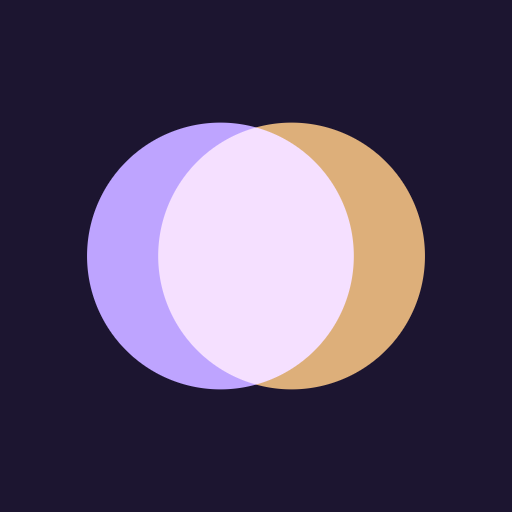
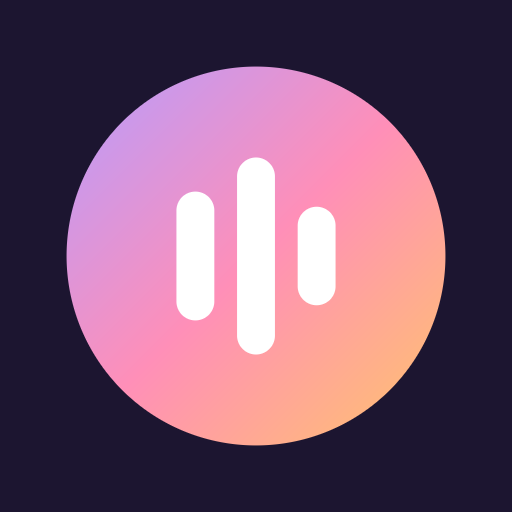
Фон из обложки, новое лого и иконки, похожие артисты, радио по треку, полировка

diff --git a/js/app.js b/js/app.js
@@ -1,6 +1,6 @@
 import * as db from './db.js';
 import { readTags, parseFileName } from './id3.js';
-import { searchItunes, searchDeezer, searchArtists, fetchArt, albumTracks, artistCatalog, artistTop } from './covers.js';
+import { searchItunes, searchDeezer, searchArtists, fetchArt, albumTracks, artistCatalog, artistTop, artistRelated } from './covers.js';
 import { Engine, EQ_BANDS, EQ_PRESETS } from './engine.js';
 import { findLyrics } from './lyrics.js';
 import { identify, cleanName, cleanTag, sameName, findOriginal, scoreCandidate, IDENT_VER } from './identify.js';
@@ -462,6 +462,15 @@ async function paintArtistTop(box, cat, mine) {
     <span class="ttl"><span class="t">${esc(s.title)}</span><span class="a">${esc(s.album || s.artist)}${s.own ? '' : ' · нет в библиотеке'}</span></span>
     <span class="acts">${s.own ? '' : '<button class="ib" data-miss="wish" title="В «Хочу скачать»"><svg><use href="#i-plus"/></svg></button><button class="ib" data-miss="find" title="Найти через бота"><svg><use href="#i-tg"/></svg></button>'}</span></li>`).join('')}</ul>`;
   box.querySelector('.arthead')?.insertAdjacentHTML('afterend', html);
+  const rel = await artistRelated(cat.dzId).catch(() => []);
+  if (!rel.length || !box.isConnected) return;
+  const groups = artistGroups();
+  const relHTML = `<div class="sechead"><div><b>Похожие артисты</b><small>Нажми — откроется дискография</small></div></div><ul class="rows"><li class="artists">${rel.map(x => {
+    const mine = groups.find(g => g.key === normKey(x.name));
+    return `<button class="artist" data-view="${mine ? 'artist:' + esc(mine.key) : 'webartist:' + esc(encodeURIComponent(x.name))}">${x.pic ? `<img class="cov" src="${esc(x.pic)}" alt="" loading="lazy" style="border-radius:50%">` : '<span class="cov">?</span>'}<b>${esc(x.name)}</b><small>${mine ? tracksWord(mine.n) + ' у тебя' : 'нет в библиотеке'}</small></button>`;
+  }).join('')}</li></ul>`;
+  const last = [...box.querySelectorAll(':scope > .sechead')].at(-1);
+  last ? last.insertAdjacentHTML('beforebegin', relHTML) : box.insertAdjacentHTML('beforeend', relHTML);
 }
 
 const viewName = () => ({ ...SMART, news: 'Новинки', stats: 'Итоги', all: 'Вся музыка', liked: 'Любимое', recent: 'Недавние', fix: 'Проверка названий', wave: 'Волна', wish: 'Хочу скачать', albums: 'Альбомы' })[view] || (view.startsWith('webartist:') ? decodeURIComponent(view.slice(10)) : view.startsWith('album:') ? (albumGroups().find(g => g.key === view.slice(6)) || webAlbum(view.slice(6)))?.name : view.startsWith('artist:') ? artistGroups().find(g => g.key === view.slice(7))?.name : lib.playlists.find(p => p.id === view)?.name) || 'Плейлист';
@@ -798,6 +807,16 @@ function currentTaste() {
 const recentIds = () => lib.history.slice(0, 40).map(h => h.id).reverse();
 // без сети играть можно только уже скачанное
 const waveLibrary = () => { const all = [...tracks.values()]; return navigator.onLine ? all : all.filter(t => t.downloaded); };
+// Радио: начинаем с выбранного трека, дальше Волна подбирает похожие по звучанию, темпу и жанру
+function startRadio(id) {
+  const t = getT(id); if (!t) return;
+  const picks = nextWave(waveLibrary().filter(x => x.id !== id), currentTaste(), { count: 12, history: recentIds(), after: t });
+  waveMode = true;
+  queue = queueBase = [id, ...picks.map(x => x.id)];
+  injectPreviews();
+  playId(id);
+  toast(`Радио по треку «${t.title}»`);
+}
 function startWave() {
   const library = waveLibrary();
   if (!library.length) { toast(tracks.size ? 'Без интернета волне нечего играть: треки ещё не скачаны' : 'Сначала добавь музыку'); return; }
@@ -1121,8 +1140,20 @@ async function loadAudio(t) {
 }
 
 // ---------- отрисовка плеера ----------
+let bdUrl = '', bdFlip = 0;
+async function paintBackdrop(t) {
+  const url = !t ? '' : t.cover ? await coverUrl(t.id).catch(() => '') : (t.art || '');
+  if (url === bdUrl) return;
+  bdUrl = url; bdFlip ^= 1;
+  for (const box of $$('#backdrop, #fullbg')) {
+    const [x, y] = box.children, on = bdFlip ? y : x, off = bdFlip ? x : y;
+    if (url) on.style.backgroundImage = `url("${url}")`;
+    on.classList.toggle('on', !!url); off.classList.remove('on');
+  }
+}
 async function paintNow() {
   const t = engine.track;
+  paintBackdrop(t);
   $('#npTitle').textContent = t ? t.title : 'Ничего не играет';
   $('#npArtist').textContent = t ? (t.artist || 'Неизвестный артист') + (t.source === 'preview' ? ', превью 30 секунд' : '') : 'Выбери трек';
   $('#npLike').hidden = !t; $('#npAdd').hidden = !t;
@@ -1282,6 +1313,7 @@ function openMenu(id, x, y) {
     <button data-m="playNext">Играть следующим</button>
     <button data-m="qadd">В очередь</button>
     <button data-m="toPl">Добавить в плейлист</button>
+    <button data-m="radio">Радио по этому треку</button>
     <button data-m="rename">Изменить название</button>
     ${inPl ? '<button data-m="fromPl">Убрать из плейлиста</button>' : ''}
     <hr>
@@ -1299,6 +1331,7 @@ function openMenu(id, x, y) {
       addToQueue(id, a === 'playNext');
     } else if (a === 'toPl') pickPlaylist(id);
     else if (a === 'rename') openFind(t);
+    else if (a === 'radio') startRadio(id);
     else if (a === 'fromPl') { inPl.ids = inPl.ids.filter(q => q !== id); saveLib(); render(); }
     else if (a === 'orig') {
       // Mix ошибся: возвращаем как было и больше этот трек сам не трогаем

diff --git a/css/app.css b/css/app.css
@@ -846,3 +846,33 @@ img.cov { object-fit: cover; }
 .toplist .t { font-weight: 600; white-space: nowrap; overflow: hidden; text-overflow: ellipsis; }
 .toplist .a { color: var(--mist); font-size: 13px; }
 @media (max-width: 900px) { .statnums { grid-template-columns: repeat(2, minmax(0, 1fr)); } .arthead img { width: 84px; height: 84px; } .arthead b { font-size: 22px; } }
+
+/* ---------- фон из обложки ---------- */
+@property --h { syntax: '<number>'; inherits: true; initial-value: 258; }
+@property --s { syntax: '<percentage>'; inherits: true; initial-value: 100%; }
+:root { transition: --h 1.4s ease, --s 1.4s ease; }
+.backdrop { position: fixed; inset: 0; z-index: -1; pointer-events: none; overflow: hidden; }
+.fullbg { position: absolute; inset: 0; z-index: -1; pointer-events: none; overflow: hidden; }
+.backdrop i, .fullbg i { position: absolute; inset: -20%; background: center / cover no-repeat; filter: blur(80px) saturate(1.6); opacity: 0; transform: scale(1.15); transition: opacity 1.6s ease; }
+.backdrop i.on { opacity: .2; }
+.fullbg i.on { opacity: .8; }
+.fullbg::after { content: ""; position: absolute; inset: 0; background: linear-gradient(180deg, hsl(var(--h) 35% 10% / .25), hsl(var(--h) 35% 7% / .88)); }
+body { background: radial-gradient(120% 80% at 70% -10%, hsl(var(--h) 45% 18%), var(--night) 60%); }
+
+/* ---------- лого ---------- */
+svg.logo-mark { width: 30px; height: 30px; flex: none; filter: drop-shadow(0 4px 12px rgb(255 143 184 / .35)); }
+svg.logo-mark rect { transform-box: fill-box; transform-origin: center; }
+body.playing svg.logo-mark rect { animation: eqbar .9s ease-in-out infinite alternate; }
+body.playing svg.logo-mark rect:nth-child(2) { animation-delay: -.3s; }
+body.playing svg.logo-mark rect:nth-child(3) { animation-delay: -.6s; }
+@keyframes eqbar { from { transform: scaleY(.55); } to { transform: scaleY(1); } }
+@media (max-width: 900px) { svg.logo-mark { width: 24px; height: 24px; } }
+
+/* ---------- полировка ---------- */
+.btn.primary { background: linear-gradient(135deg, hsl(var(--h) 90% 80%), hsl(calc(var(--h) + 35) 90% 74%)); color: #1a1226; }
+.album .cov, .artist .cov { transition: transform .25s var(--ease), box-shadow .25s var(--ease); }
+.album:hover .cov, .artist:hover .cov { box-shadow: 0 14px 30px rgb(0 0 0 / .45); }
+.stack img, .stack .cov { box-shadow: 0 30px 70px rgb(0 0 0 / .55); }
+.row { transition: background .15s ease; }
+.sechead b { letter-spacing: -.2px; }
+@media (prefers-reduced-motion: reduce) { body.playing svg.logo-mark rect { animation: none; } :root { transition: none; } }

diff --git a/index.html b/index.html
@@ -17,6 +17,7 @@
   <link rel="stylesheet" href="css/app.css">
 </head>
 <body>
+  <div class="backdrop" id="backdrop" aria-hidden="true"><i></i><i></i></div>
   <svg width="0" height="0" style="position:absolute">
     <symbol id="i-play" viewBox="0 0 24 24"><path d="M8 5.1v13.8a1 1 0 0 0 1.5.9l10.8-6.9a1 1 0 0 0 0-1.7L9.5 4.2A1 1 0 0 0 8 5.1Z"/></symbol>
     <symbol id="i-pause" viewBox="0 0 24 24"><rect x="6" y="5" width="4" height="14" rx="1.2"/><rect x="14" y="5" width="4" height="14" rx="1.2"/></symbol>
@@ -52,7 +53,7 @@
 
   <div class="app">
     <aside class="rail">
-      <div class="logo"><span class="logo-mark"><span></span><span></span></span>Mix</div>
+      <div class="logo"><svg class="logo-mark" viewBox="0 0 100 100" aria-hidden="true"><defs><linearGradient id="lgMix" x1="0" y1="0" x2="1" y2="1"><stop offset="0" stop-color="#B69CFF"/><stop offset=".5" stop-color="#FF8FB8"/><stop offset="1" stop-color="#FFC56B"/></linearGradient></defs><circle cx="50" cy="50" r="50" fill="url(#lgMix)"/><g fill="#fff"><rect x="29" y="33" width="10" height="34" rx="5"/><rect x="45" y="24" width="10" height="52" rx="5"/><rect x="61" y="37" width="10" height="26" rx="5"/></g></svg>Mix</div>
       <nav class="nav" id="nav"></nav>
       <div class="rail-foot">
         <div class="tgcard" id="tgcard"></div>
@@ -119,6 +120,7 @@
   </footer>
 
   <section class="full" id="full" aria-label="Сейчас играет">
+    <div class="fullbg" id="fullbg" aria-hidden="true"><i></i><i></i></div>
     <div class="grab fullgrab"></div>
     <button class="close" id="closeFull" title="Свернуть"><svg style="margin:auto"><use href="#i-down"/></svg></button>
     <div class="stack" id="stack"></div>

diff --git a/js/covers.js b/js/covers.js
@@ -88,6 +88,11 @@ export async function artistTop(dzId, limit = 10) {
   const j = await jsonp(`https://api.deezer.com/artist/${dzId}/top?limit=${limit}`);
   return (j?.data || []).map(x => ({ title: x.title, artist: x.artist?.name || '', album: x.album?.title || '', art: x.album?.cover_xl || x.album?.cover_big || null, preview: x.preview || null, duration: x.duration || 0 }));
 }
+// Похожие артисты (Deezer)
+export async function artistRelated(dzId, limit = 12) {
+  const j = await jsonp(`https://api.deezer.com/artist/${dzId}/related?limit=${limit}`);
+  return (j?.data || []).map(x => ({ name: x.name, pic: x.picture_medium || null }));
+}
 async function deezerCatalog(name) {
   const s = await jsonp(`https://api.deezer.com/search/artist?q=${encodeURIComponent(name)}&limit=5`);
   const a = (s?.data || []).find(x => nk(x.name) === nk(name));

diff --git a/sw.js b/sw.js
@@ -2,7 +2,7 @@
 // Свои файлы: сначала сеть (так обновления приходят сами), при её отсутствии или задержке — кэш.
 // Шрифты и зафиксированные модули esm.sh: сначала кэш. Всё остальное (Telegram, LRCLIB, iTunes, AcoustID, аудио) не трогаем.
 // VERSION и список ниже обновляет deploy.ps1.
-const VERSION = '2026-11-15-1820';
+const VERSION = '2026-11-15-1832';
 // PRECACHE:BEGIN
 const APP = [
   'index.html',
